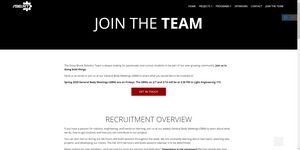
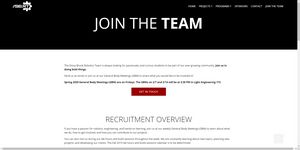
updated gbm time for spring 2020

Changed region(s): [[0.0, 0.9867, 0.99, 1.0], [0.93, 0.08, 1.0, 0.16], [0.99, 0.24, 1.0, 0.2933]]

diff --git a/contact.html b/contact.html
@@ -65,7 +65,7 @@
     </nav>
 </section>
 
-<section class="engine"><a href="https://mobirise.info/j">website templates</a></section><section class="header1 cid-rzmfOvJogR" id="header1-2g">
+<section class="engine"><a href="https://mobirise.info/b">how to create your own site</a></section><section class="header1 cid-rzmfOvJogR" id="header1-2g">
 
     
 
@@ -92,7 +92,7 @@
     <div class="container">
         <div class="row">
             <div class="col-md-6">
-                <div class="google-map"><iframe frameborder="0" style="border:0" src="https://www.google.com/maps/embed/v1/place?key=AIzaSyAEIpgj38KyLFELm2bK9Y7krBkz1K-cMq8&amp;q=place_id:ChIJvzh05jM_6IkRhcy9aqUcTHM" allowfullscreen=""></iframe></div>
+                <div class="google-map"></div>
             </div>
             <div class="col-md-6">
                 <h2 class="pb-3 align-left mbr-fonts-style display-2">
@@ -110,7 +110,7 @@
                 </div>
                 <div data-form-type="formoid">
                     <!---Formbuilder Form--->
[2 lines of base64/hex data omitted]
                         <div class="row">
                             <div hidden="hidden" data-form-alert="" class="alert alert-success col-12">Thank you for reaching out to the Stony Brook Robotics Team! We will get back to you as soon as possible.</div>
                             <div hidden="hidden" data-form-alert-danger="" class="alert alert-danger col-12">

diff --git a/join.html b/join.html
@@ -65,7 +65,7 @@
     </nav>
 </section>
 
-<section class="engine"><a href="https://mobirise.info/q">free responsive web templates</a></section><section class="header1 cid-rzmikG215G" id="header1-2p">
+<section class="engine"><a href="https://mobirise.info/y">html site templates</a></section><section class="header1 cid-rzmikG215G" id="header1-2p">
 
     
 
@@ -90,7 +90,7 @@
 
     <div class="container">
         <div class="media-container-row">
-            <div class="mbr-text col-12 mbr-fonts-style display-7 col-md-12"><p>The Stony Brook Robotics Team is always looking for passionate, and curious students to be part of our ever-growing community. <strong>Join us in doing bold things.</strong> </p><p>Send us an email or join us at our General Body Meetings (GBM) to share what you would like to be involved in!</p><p><strong>Spring 2020 General Body Meetings (GBM) are on Fridays. The GBMs on 2/7 and 2/14 will be at 3:30 PM in Light Engineering 173.</strong></p></div>
+            <div class="mbr-text col-12 mbr-fonts-style display-7 col-md-12"><p>The Stony Brook Robotics Team is always looking for passionate, and curious students to be part of our ever-growing community. <strong>Join us in doing bold things.</strong> </p><p>Send us an email or join us at our General Body Meetings (GBM) to share what you would like to be involved in!</p><p><strong>Spring 2020 General Body Meetings (GBM) are on Fridays at 3:00 PM in Light Engineering 102.</strong></p></div>
         </div>
     </div>
 </section>

diff --git a/index.html b/index.html
@@ -65,7 +65,7 @@
     </nav>
 </section>
 
-<section class="engine"><a href="https://mobirise.info/n">free simple web templates</a></section><section class="carousel slide cid-rzhyvSch9q" data-interval="false" id="slider1-q">
+<section class="engine"><a href="https://mobirise.info">Mobirise</a></section><section class="carousel slide cid-rzhyvSch9q" data-interval="false" id="slider1-q">
 
     
 

diff --git a/mentorship.html b/mentorship.html
@@ -65,7 +65,7 @@
     </nav>
 </section>
 
-<section class="engine"><a href="https://mobirise.info/o">portfolio website templates</a></section><section class="header1 cid-rzDP4ENzr0" id="header1-10">
+<section class="engine"><a href="https://mobirise.info/q">responsive website templates</a></section><section class="header1 cid-rzDP4ENzr0" id="header1-10">
 
     
 

diff --git a/mechwarfare.html b/mechwarfare.html
@@ -66,7 +66,7 @@
     </nav>
 </section>
 
-<section class="engine"><a href="https://mobirise.info/g">build your own website</a></section><section class="header1 cid-rzm66SJzgE" id="header1-22">
+<section class="engine"><a href="https://mobirise.info/p">website templates free download</a></section><section class="header1 cid-rzm66SJzgE" id="header1-22">
 
     
 

diff --git a/rover.html b/rover.html
@@ -66,7 +66,7 @@
     </nav>
 </section>
 
-<section class="engine"><a href="https://mobirise.info/y">html web templates</a></section><section class="header1 cid-rzm1cHR7tH" id="header1-1t">
+<section class="engine"><a href="https://mobirise.info/z">best free website templates</a></section><section class="header1 cid-rzm1cHR7tH" id="header1-1t">
 
     
 

diff --git a/internalcomp.html b/internalcomp.html
@@ -66,7 +66,7 @@
     </nav>
 </section>
 
-<section class="engine"><a href="https://mobirise.info/c">free website builder</a></section><section class="header1 cid-rzDJxvvaTc" id="header1-r">
+<section class="engine"><a href="https://mobirise.info/f">simple website creator</a></section><section class="header1 cid-rzDJxvvaTc" id="header1-r">
 
     
 

diff --git a/autocar.html b/autocar.html
@@ -65,7 +65,7 @@
     </nav>
 </section>
 
-<section class="engine"><a href="https://mobirise.info/u">bootstrap html templates</a></section><section class="header1 cid-rzlZfx2wP5" id="header1-1d">
+<section class="engine"><a href="https://mobirise.info/d">free web maker</a></section><section class="header1 cid-rzlZfx2wP5" id="header1-1d">
 
     
 

diff --git a/sponsors.html b/sponsors.html
@@ -65,7 +65,7 @@
     </nav>
 </section>
 
-<section class="engine"><a href="https://mobirise.info/b">create a site</a></section><section class="header1 cid-rzmb1LplS2" id="header1-28">
+<section class="engine"><a href="https://mobirise.info/h">how to create a web page</a></section><section class="header1 cid-rzmb1LplS2" id="header1-28">
 
     
 
